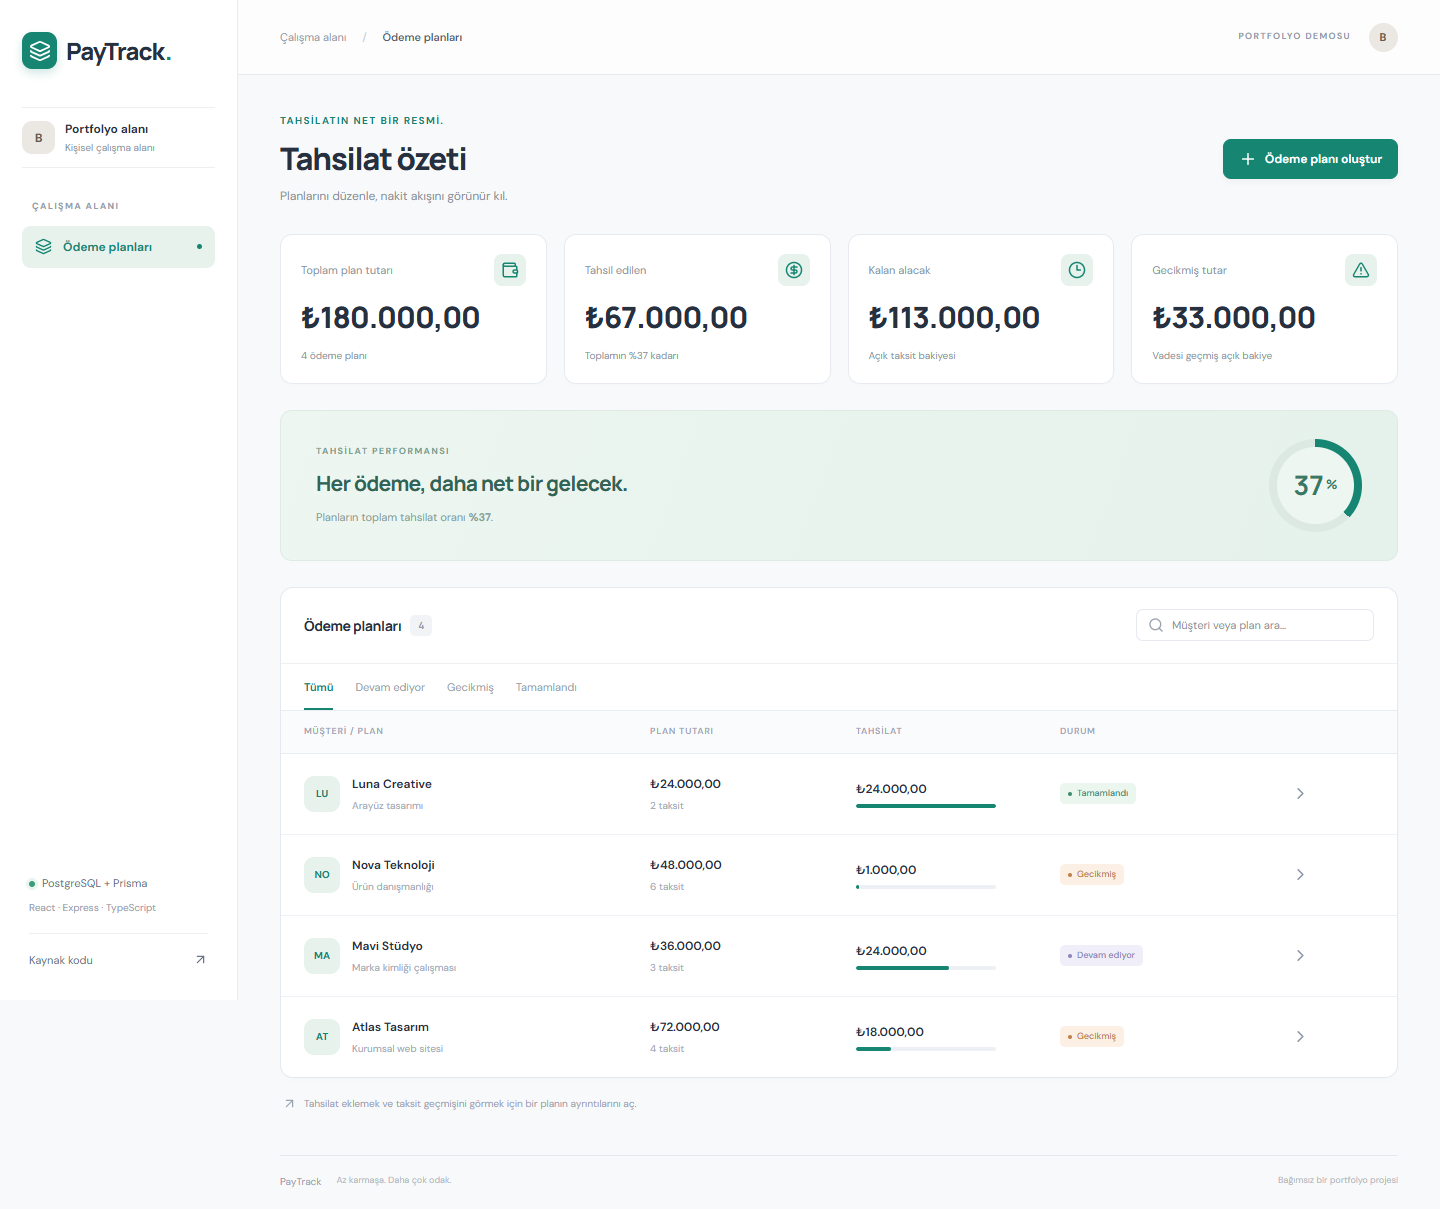
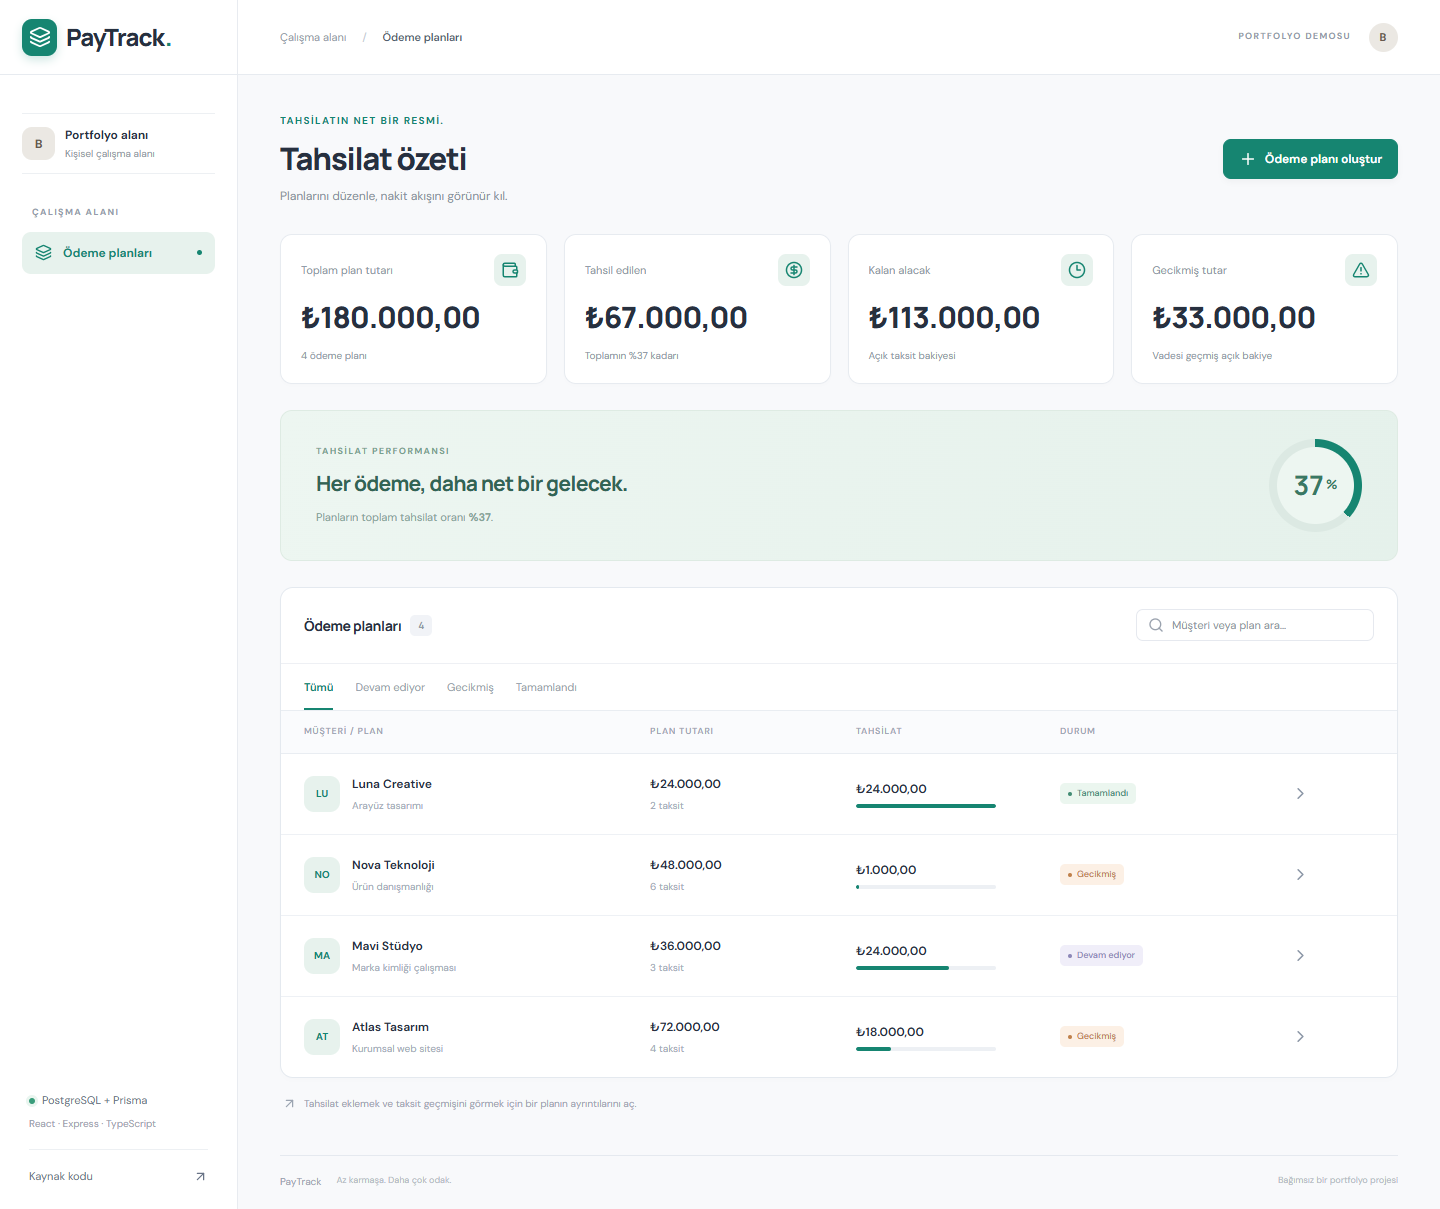
Align sidebar with page flow and refresh screenshots

diff --git a/frontend/src/styles.css b/frontend/src/styles.css
@@ -120,21 +120,29 @@ input::placeholder {
   color: #8c94a1;
 }
 .app-shell {
-  display: flex;
+  --sidebar-width: 238px;
+  --sidebar-padding: 22px;
+  display: grid;
+  grid-template-columns: var(--sidebar-width) minmax(0, 1fr);
+  align-items: stretch;
   min-height: 100vh;
 }
 .sidebar {
-  position: fixed;
-  width: 238px;
-  inset: 0 auto 0 0;
+  min-width: 0;
   background: #fff;
   border-right: 1px solid #e8ebf0;
-  padding: 32px 22px;
+  padding: 0 var(--sidebar-padding) 24px;
   display: flex;
   flex-direction: column;
   z-index: 10;
 }
 .brand {
+  align-self: stretch;
+  flex-shrink: 0;
+  min-height: 75px;
+  margin-inline: calc(-1 * var(--sidebar-padding));
+  padding-inline: var(--sidebar-padding);
+  border-bottom: 1px solid #e7ebf0;
   font-size: 24px;
   font-weight: 800;
   letter-spacing: -1px;
@@ -254,15 +262,14 @@ input::placeholder {
   box-shadow: 0 0 0 3px #e9f5ef;
 }
 .main-shell {
-  margin-left: 238px;
   min-width: 0;
-  width: calc(100% - 238px);
+  width: 100%;
 }
 .topbar {
   height: 75px;
   padding: 0 42px;
   border-bottom: 1px solid #e7ebf0;
-  background: #ffffffb3;
+  background: #fff;
   display: flex;
   align-items: center;
   justify-content: space-between;
@@ -1238,13 +1245,9 @@ dialog .notice {
   }
 }
 @media (max-width: 1200px) {
-  .sidebar {
-    width: 200px;
-    padding: 29px 17px;
-  }
-  .main-shell {
-    margin-left: 200px;
-    width: calc(100% - 200px);
+  .app-shell {
+    --sidebar-width: 200px;
+    --sidebar-padding: 17px;
   }
   main {
     padding: 30px 25px;
@@ -1287,12 +1290,16 @@ dialog .notice {
   }
 }
 @media (max-width: 900px) {
+  .app-shell {
+    --sidebar-width: 74px;
+    --sidebar-padding: 10px;
+  }
   .sidebar {
-    width: 74px;
     align-items: center;
-    padding: 24px 10px;
   }
   .brand {
+    min-height: 60px;
+    justify-content: center;
     font-size: 0;
     gap: 0;
   }
@@ -1314,10 +1321,6 @@ dialog .notice {
   }
   .nav-dot {
     display: none;
-  }
-  .main-shell {
-    margin-left: 74px;
-    width: calc(100% - 74px);
   }
   .stats {
     grid-template-columns: repeat(2, minmax(0, 1fr));
@@ -1370,6 +1373,11 @@ dialog .notice {
     border-bottom: 1px solid #e5e9ef;
   }
   .brand {
+    min-height: 0;
+    margin-inline: 0;
+    padding-inline: 0;
+    border-bottom: 0;
+    justify-content: flex-start;
     font-size: 21px;
     gap: 8px;
   }
